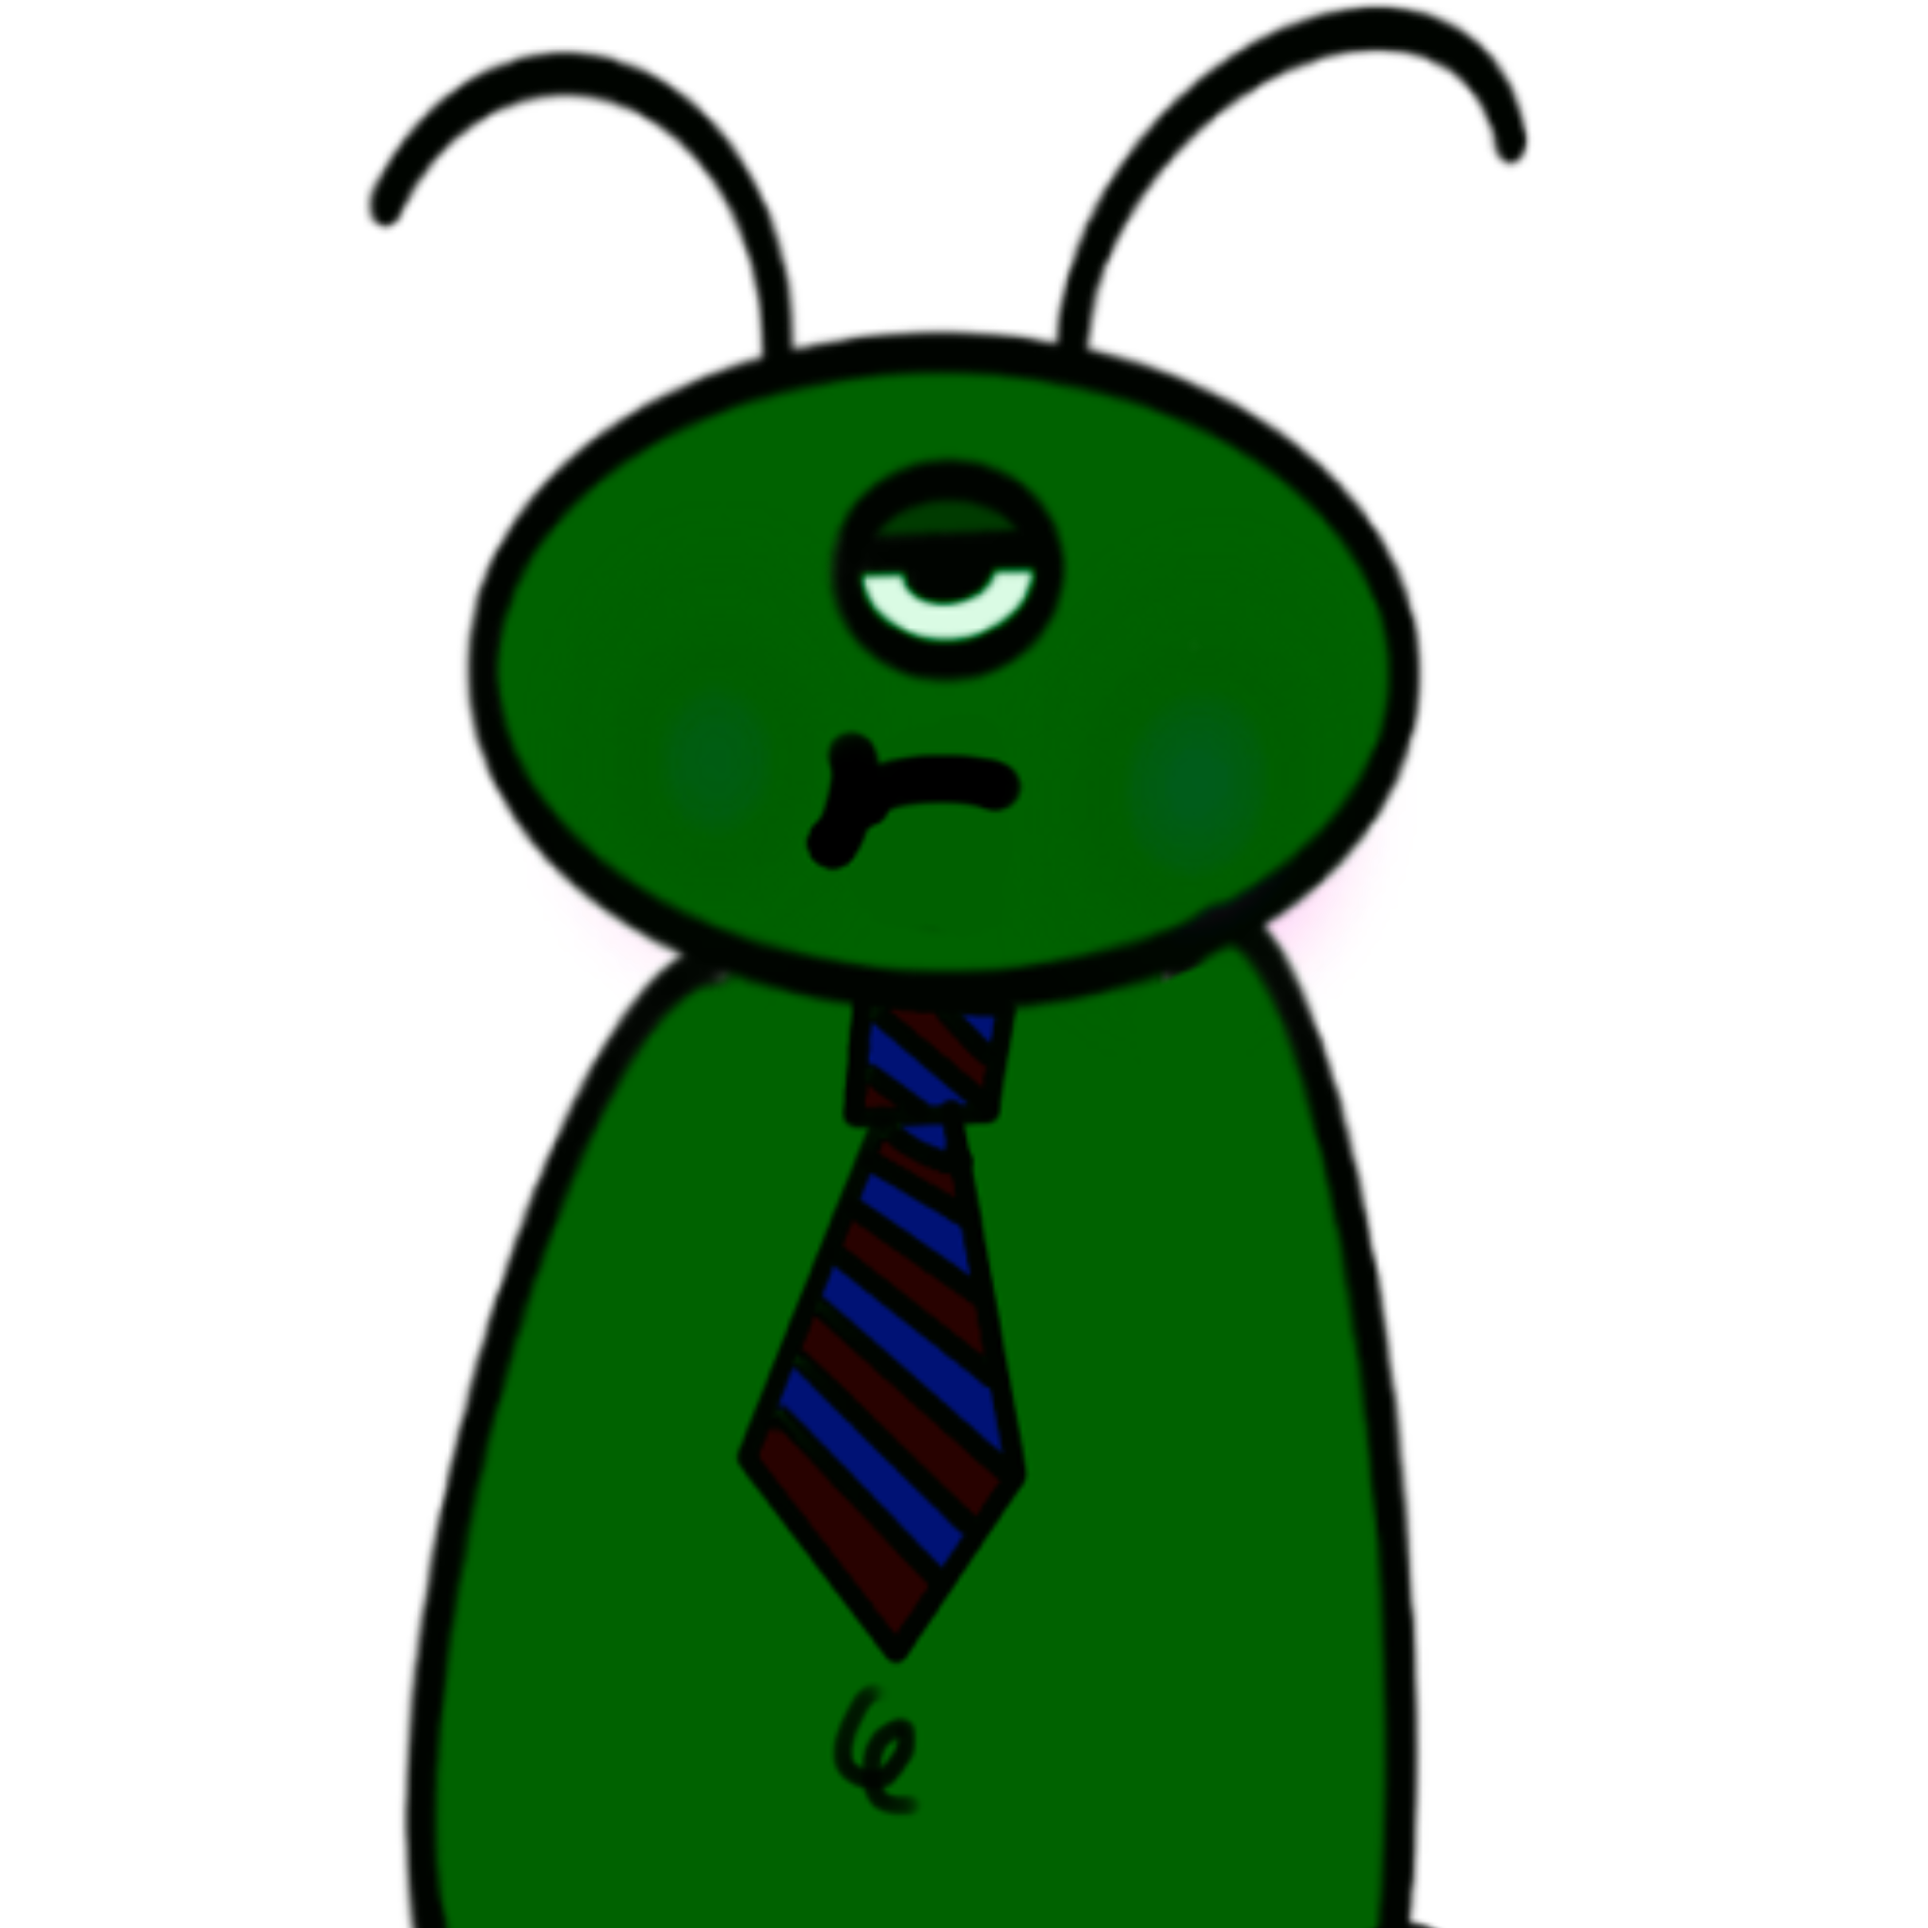
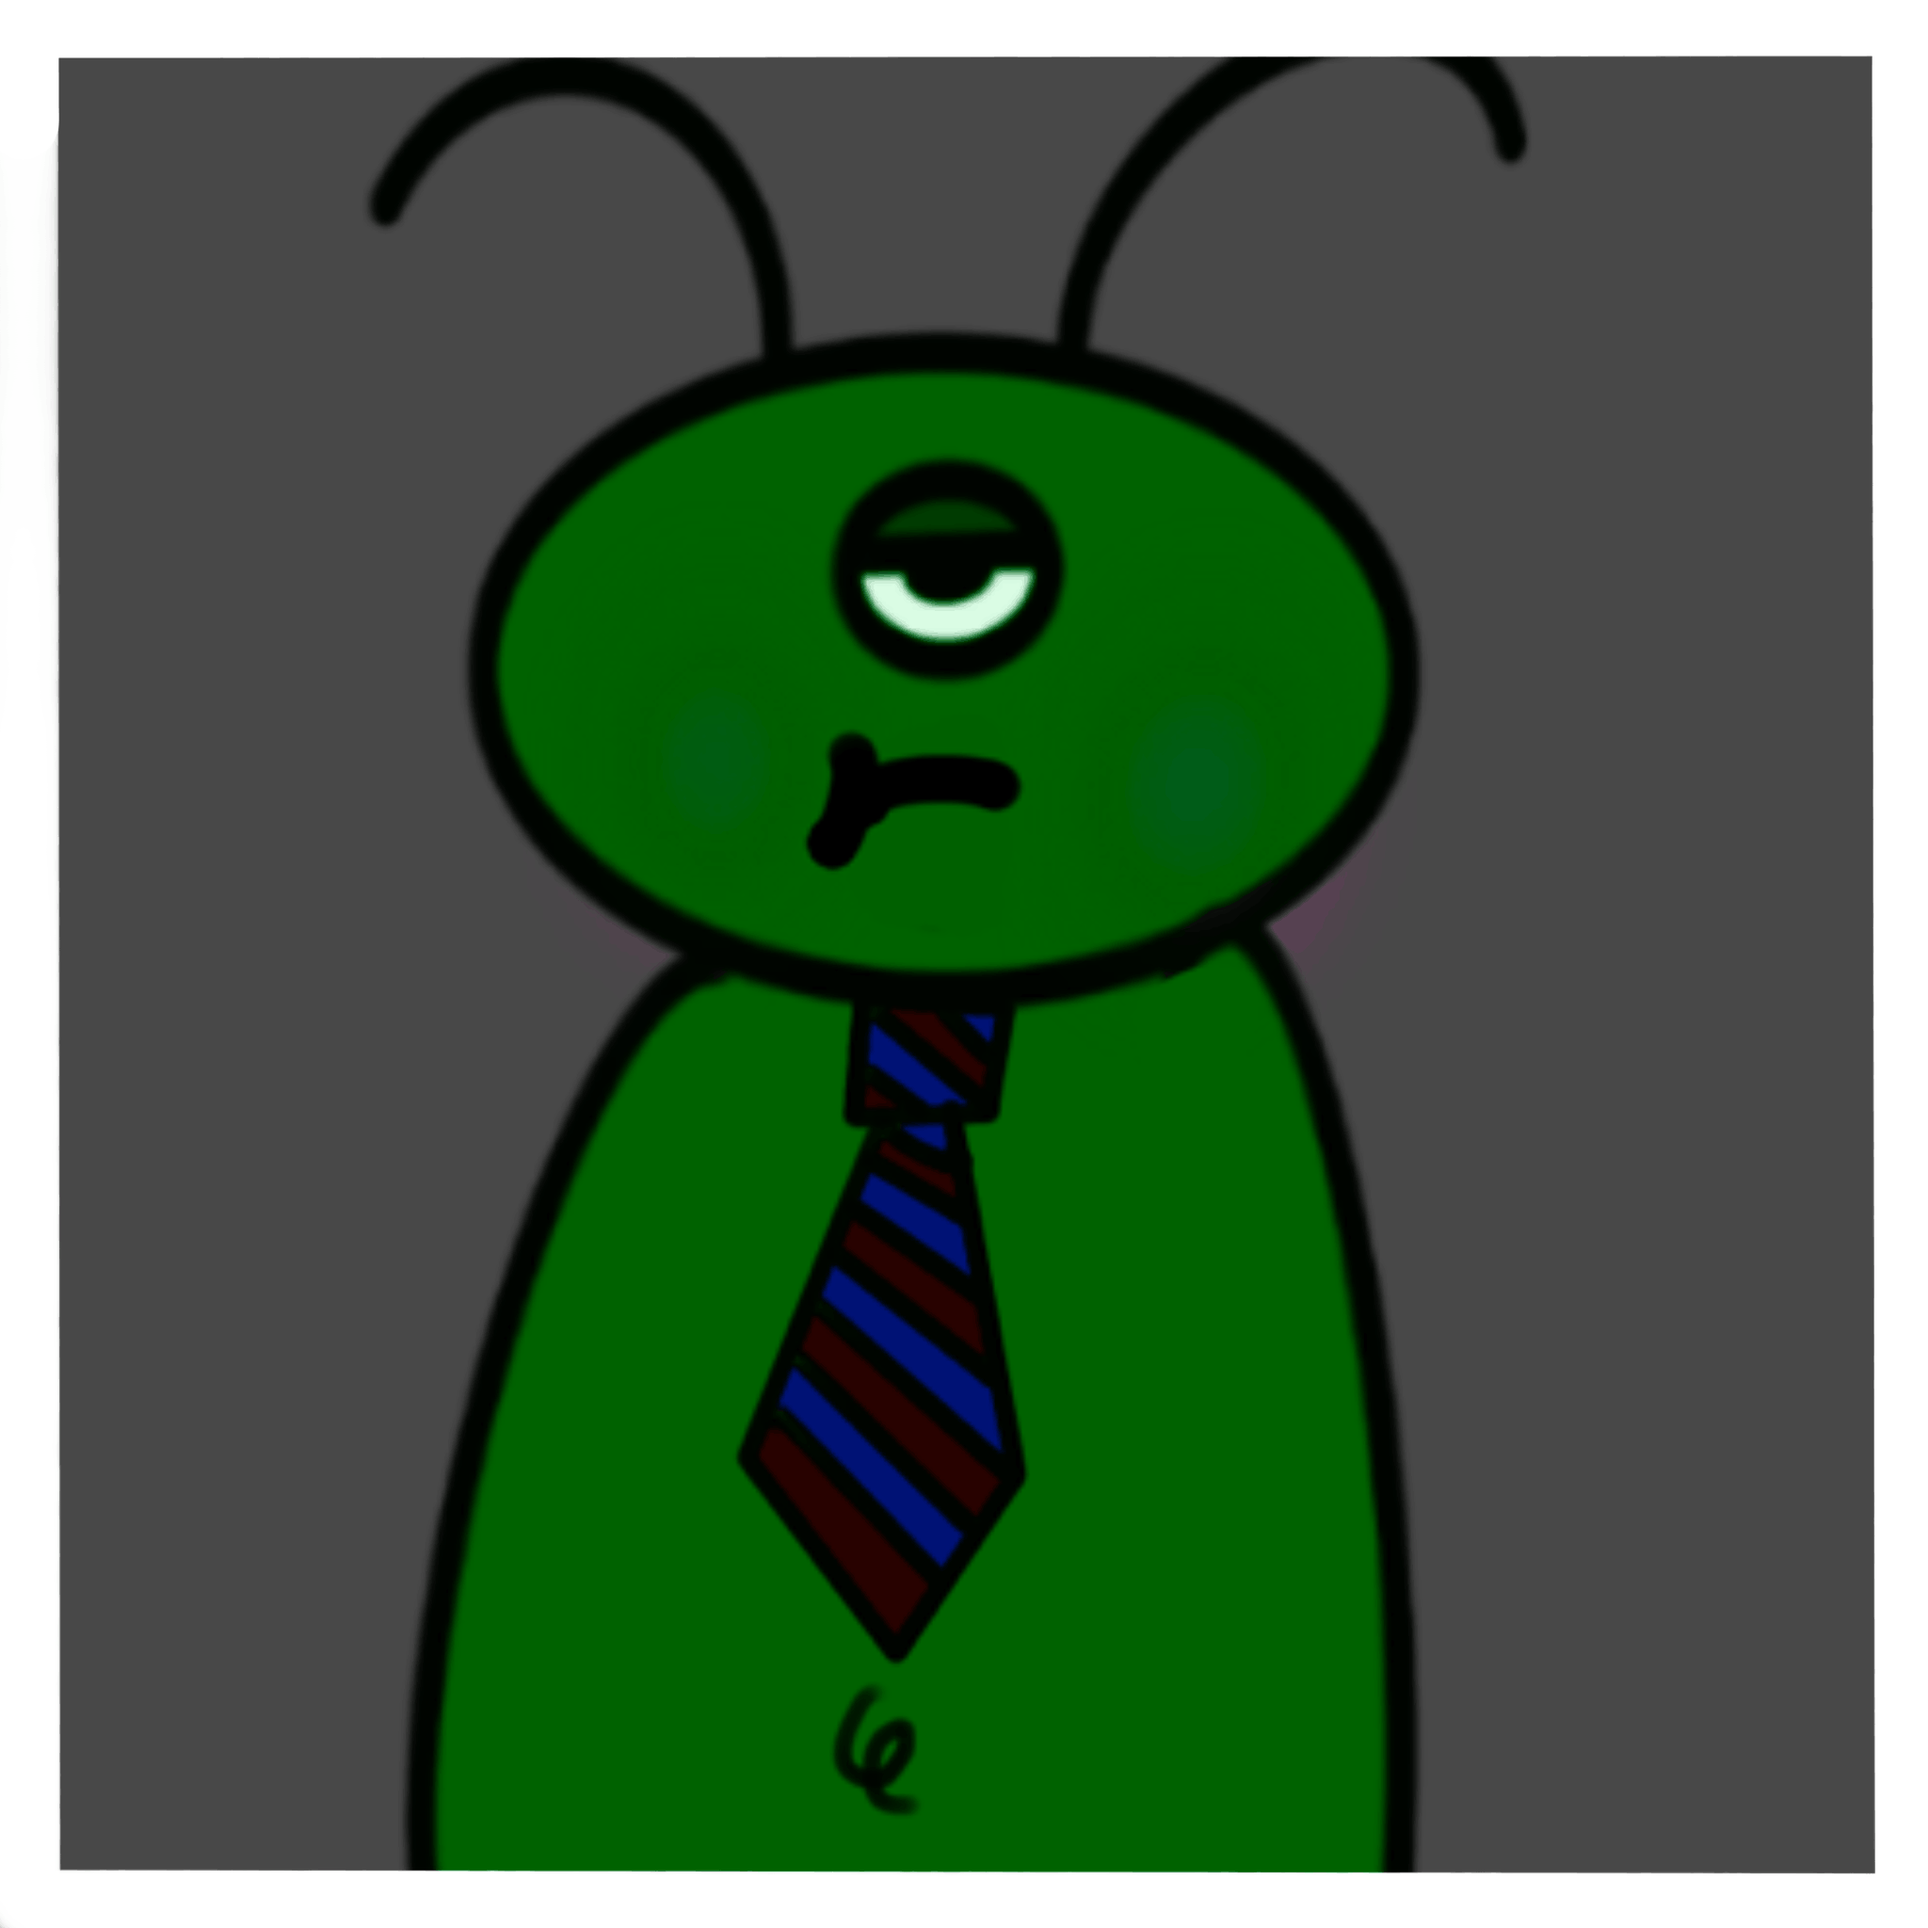
revert testing mode in level 3 tutorial back to gameplay mode and added some more dialogue
add evaluation grades and images to evalutation scenes and grades to song jackets in levelselect

diff --git a/scenes/evaluationscene.js b/scenes/evaluationscene.js
@@ -22,6 +22,8 @@ class EvaluationScene extends BaseScene {
     preload() {
 
         this.load.pack("main", "../assets/level3assets.json");
+        this.load.image("marvelous", "../assets/images/level3/marvelous.png");
+        this.load.image("oops", "../assets/images/level3/oops.png");
     }
 
 
@@ -50,11 +52,12 @@ class EvaluationScene extends BaseScene {
                     this.time.delayedCall (
 
                         2000,
-                        () => this.add.text (
-                            this.SCREEN_WIDTH * 0.5, 
+                        () => this.add.image (
+                            this.SCREEN_WIDTH * 0.5,
                             this.SCREEN_HEIGHT * 0.4,
-                            `Your score was ${this.score.toFixed(0)}`)
+                            "marvelous")
                             .setOrigin(0.5, 0.5)
+                            .setScale(0.15)
 
                     );
 
@@ -71,11 +74,12 @@ class EvaluationScene extends BaseScene {
                     this.time.delayedCall (
 
                         2000,
-                        () => this.add.text (
-                            this.SCREEN_WIDTH * 0.5, 
+                        () => this.add.image (
+                            this.SCREEN_WIDTH * 0.5,
                             this.SCREEN_HEIGHT * 0.4,
-                            `Your score was ${this.score.toFixed(0)}`)
+                            "oops")
                             .setOrigin(0.5, 0.5)
+                            .setScale(0.15)
 
                     );
 
@@ -99,11 +103,12 @@ class EvaluationScene extends BaseScene {
                     this.time.delayedCall (
 
                         2000,
-                        () => this.add.text (
-                            this.SCREEN_WIDTH * 0.5, 
+                        () => this.add.image (
+                            this.SCREEN_WIDTH * 0.5,
                             this.SCREEN_HEIGHT * 0.4,
-                            `Your score was ${this.score.toFixed(0)}`)
+                            "marvelous")
                             .setOrigin(0.5, 0.5)
+                            .setScale(0.15)
 
                     );
 
@@ -120,11 +125,12 @@ class EvaluationScene extends BaseScene {
                     this.time.delayedCall (
 
                         2000,
-                        () => this.add.text (
-                            this.SCREEN_WIDTH * 0.5, 
+                        () => this.add.image (
+                            this.SCREEN_WIDTH * 0.5,
                             this.SCREEN_HEIGHT * 0.4,
-                            `Your score was ${this.score.toFixed(0)}`)
+                            "oops")
                             .setOrigin(0.5, 0.5)
+                            .setScale(0.15)
 
                     );
 
@@ -143,17 +149,18 @@ class EvaluationScene extends BaseScene {
                     this.add.text(
                         this.SCREEN_WIDTH * 0.5,
                         this.SCREEN_HEIGHT * 0.2,
-                        "Great Job!")
+                        "You handled those offbeat abduc- I mean collections really well!")
                         .setOrigin(0.5, 0.5);
 
                     this.time.delayedCall (
 
                         2000,
-                        () =>  { this.add.text (
-                            this.SCREEN_WIDTH * 0.5, 
+                        () =>  { this.add.image (
+                            this.SCREEN_WIDTH * 0.5,
                             this.SCREEN_HEIGHT * 0.4,
-                            `Your score was ${this.score.toFixed(0)}`)
-                            .setOrigin(0.5, 0.5),
+                            "marvelous")
+                            .setOrigin(0.5, 0.5)
+                            .setScale(0.15)
 
                             this.add.image (
                             this.SCREEN_WIDTH * 0.7,
@@ -171,17 +178,18 @@ class EvaluationScene extends BaseScene {
                     this.add.text(
                         this.SCREEN_WIDTH * 0.5,
                         this.SCREEN_HEIGHT * 0.2,
-                        "Meh!")
+                        "Well, I think we could be partners after you grow your skillset a bit more...")
                         .setOrigin(0.5, 0.5);
 
                     this.time.delayedCall (
 
                         2000,
-                        () =>  { this.add.text (
-                            this.SCREEN_WIDTH * 0.5, 
+                        () =>  { this.add.image (
+                            this.SCREEN_WIDTH * 0.5,
                             this.SCREEN_HEIGHT * 0.4,
-                            `Your score was ${this.score.toFixed(0)}`)
-                            .setOrigin(0.5, 0.5),
+                            "oops")
+                            .setOrigin(0.5, 0.5)
+                            .setScale(0.15)
 
                             this.add.image (
                             this.SCREEN_WIDTH * 0.7,
@@ -204,11 +212,11 @@ class EvaluationScene extends BaseScene {
 
         this.time.delayedCall (
 
-            3000,
+            4000,
             () => playAgain = this.add.text (
                 this.SCREEN_WIDTH * 0.5, 
                 this.SCREEN_HEIGHT * 0.7,
-                "Return")
+                "Back to level select")
                 .setOrigin(0.5, 0.5)
                 .setInteractive({useHandCursor: true})
                 .on('pointerdown', () => {

diff --git a/scenes/levelselect.js b/scenes/levelselect.js
@@ -11,6 +11,8 @@ class LevelSelect extends BaseScene {
         this.load.image("menu_background", "../assets/images/menu/background.png");
         this.load.image("lights", "../assets/images/menu/lights.png");
         this.load.image("abduct_alien", "../assets/images/level2/angry_alien.png");
+        this.load.image("marvelous", "../assets/images/level3/marvelous.png");
+        this.load.image("oops", "../assets/images/level3/oops.png");
 
         this.load.audio('menu', '../assets/audio/songs/menu.wav');
         this.load.audio('hover', '../assets/audio/sfx/menu/hoverSelection.mp3');
@@ -18,6 +20,7 @@ class LevelSelect extends BaseScene {
     }
 
     onEnter() {
+
         this.animating = false;
         this.cameras.main.setBackgroundColor(0xE0C6AD);
         this.sound.volume = BaseScene.masterVolume;
@@ -45,10 +48,10 @@ class LevelSelect extends BaseScene {
                 align: 'center'
         }).setOrigin(.5, .5);
 
-        const levels = [
-            { key: "level1", texture: "lvl1img" },
-            { key: "level2tutorial", texture: "lvl2img" },
-            { key: "level3tutorial", texture: "lvl3img" }
+        let levels = [
+            { key: "level1", texture: "lvl1img", grade: BaseScene.level1BestScore },
+            { key: "level2tutorial", texture: "lvl2img", grade: BaseScene.level2BestScore },
+            { key: "level3tutorial", texture: "lvl3img", grade: BaseScene.level3BestScore }
         ];
 
         const scale = 0.055;
@@ -61,7 +64,7 @@ class LevelSelect extends BaseScene {
         const borderThick = 8;
         const borderRadius = 10;
 
-        levels.forEach((level, i) => {
+        levels.forEach((level, i, grade) => {
             const x = startX + i * spacing;
 
             const icon = this.add.image(0, 0, level.texture)
@@ -71,6 +74,30 @@ class LevelSelect extends BaseScene {
             const w = icon.displayWidth;
             const h = icon.displayHeight;
             const half = borderThick / 2;
+
+            let levelGrade;
+
+            if (level.grade <= 0) {}
+            else if (level.grade < this.CUTOFF_SCORE) {
+                levelGrade = this.add.image (
+                            icon.x,
+                            icon.y - (icon.displayHeight * 0.5),
+                            "oops")
+                            .setOrigin(1, 1)
+                            .setScale(0.07)
+                            .setAngle(-45)
+                            .setInteractive()
+            }
+            else {
+                levelGrade = this.add.image (
+                            icon.x,
+                            icon.y - (icon.displayHeight * 0.5),
+                            "marvelous")
+                            .setOrigin(1, 1)
+                            .setScale(0.07)
+                            .setAngle(-45)
+                            .setInteractive()
+            }
 
             const border = this.add.graphics();
             const glowSteps = [
@@ -92,7 +119,8 @@ class LevelSelect extends BaseScene {
                 );
             }
 
-            const container = this.add.container(x, -200, [border, icon]);
+            let container = this.add.container(x, -200, [border, icon]);
+            if (levelGrade) container.add(levelGrade);
 
             icon.on("pointerover", () => {
                 this.add.tween({

diff --git a/scenes/level3tutorial.js b/scenes/level3tutorial.js
@@ -118,7 +118,7 @@ class Level3Tutorial extends BaseScene {
 
             {
                 type: "human",
-                hitsNeeded: 1,
+                hitsNeeded: 3,
                 dialogue: [
                     "Oh look! Here comes a potential subject!"
                 ]
@@ -126,16 +126,18 @@ class Level3Tutorial extends BaseScene {
 
             {
                 type: "cow",
-                hitsNeeded: 1,
+                hitsNeeded: 3,
                 dialogue: [
                     "Nice! That's the way.",
-                    "Oh! It looks like something else is approaching!"
+                    "Oh! It looks like something else is approaching!",
+                    "Each note has a distinct anticipation beat.",
+                    "Listen closely to each one to determine your timing!"
                 ]
             },
 
             {
                 type: "ghost",
-                hitsNeeded: 1,
+                hitsNeeded: 3,
                 dialogue: [
                     "Excellent work!",
                     "Now let's try this one"
@@ -146,7 +148,7 @@ class Level3Tutorial extends BaseScene {
                 type: null,
                 hitsNeeded: 0,
                 dialogue: [
-                    "All right.",
+                    "All right!",
                     "Let's do it for real now!"
                 ],
                 final: true
